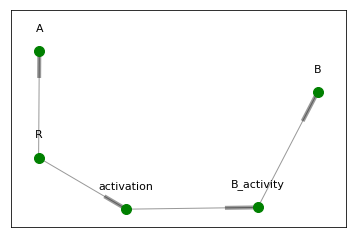
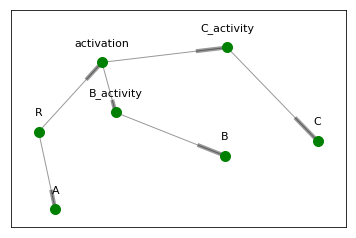
New docs build

diff --git a/searchindex.js b/searchindex.js
@@ -1,1 +1,1 @@
-Search.setIndex({docnames:["attribute_sets","exceptions","hierarchy","index","modules","primitives","rules","tutorial1","tutorial2"],envversion:53,filenames:["attribute_sets.rst","exceptions.rst","hierarchy.rst","index.rst","modules.rst","primitives.rst","rules.rst","tutorial1.rst","tutorial2.rst"],objects:{"regraph.attribute_sets":{AttributeSet:[0,1,1,""],EmptySet:[0,1,1,""],FiniteSet:[0,1,1,""],IntegerSet:[0,1,1,""],RegexSet:[0,1,1,""],UniversalSet:[0,1,1,""]},"regraph.attribute_sets.AttributeSet":{difference:[0,2,1,""],from_json:[0,3,1,""],intersect:[0,2,1,""],issubset:[0,2,1,""],union:[0,2,1,""]},"regraph.attribute_sets.EmptySet":{difference:[0,2,1,""],intersect:[0,2,1,""],is_empty:[0,2,1,""],is_universal:[0,2,1,""],issubset:[0,2,1,""],to_json:[0,2,1,""],union:[0,2,1,""]},"regraph.attribute_sets.FiniteSet":{add:[0,2,1,""],difference:[0,2,1,""],intersection:[0,2,1,""],is_empty:[0,2,1,""],is_universal:[0,2,1,""],issubset:[0,2,1,""],to_json:[0,2,1,""],union:[0,2,1,""],update:[0,2,1,""]},"regraph.attribute_sets.IntegerSet":{contains:[0,2,1,""],difference:[0,2,1,""],empty:[0,3,1,""],from_finite_set:[0,3,1,""],intersection:[0,2,1,""],is_empty:[0,2,1,""],is_universal:[0,2,1,""],issubset:[0,2,1,""],to_json:[0,2,1,""],union:[0,2,1,""],universal:[0,3,1,""]},"regraph.attribute_sets.RegexSet":{difference:[0,2,1,""],empty:[0,3,1,""],from_finite_set:[0,3,1,""],intersection:[0,2,1,""],is_empty:[0,2,1,""],is_universal:[0,2,1,""],issubset:[0,2,1,""],match:[0,2,1,""],to_json:[0,2,1,""],union:[0,2,1,""],universal:[0,3,1,""]},"regraph.attribute_sets.UniversalSet":{difference:[0,2,1,""],intersection:[0,2,1,""],is_empty:[0,2,1,""],is_universal:[0,2,1,""],issubset:[0,2,1,""],to_json:[0,2,1,""],union:[0,2,1,""]},"regraph.exceptions":{AttributeSetError:[1,4,1,""],FormulaError:[1,4,1,""],GraphAttrsWarning:[1,4,1,""],GraphError:[1,4,1,""],HierarchyError:[1,4,1,""],InvalidHomomorphism:[1,4,1,""],ParsingError:[1,4,1,""],ReGraphError:[1,4,1,""],ReGraphException:[1,4,1,""],ReGraphWarning:[1,4,1,""],RewritingError:[1,4,1,""],RuleError:[1,4,1,""],TotalityWarning:[1,4,1,""]},"regraph.hierarchy":{AttributeContainter:[2,1,1,""],GraphNode:[2,1,1,""],GraphRelation:[2,1,1,""],Hierarchy:[2,1,1,""],Relation:[2,1,1,""],RuleNode:[2,1,1,""],RuleTyping:[2,1,1,""],Typing:[2,1,1,""]},"regraph.hierarchy.AttributeContainter":{add_attrs:[2,2,1,""],attrs_from_json:[2,5,1,""],attrs_to_json:[2,2,1,""],remove_attrs:[2,2,1,""],update_attrs:[2,2,1,""]},"regraph.hierarchy.GraphRelation":{left_domain:[2,2,1,""],right_domain:[2,2,1,""]},"regraph.hierarchy.Hierarchy":{"export":[2,2,1,""],add_cycle:[2,2,1,""],add_graph:[2,2,1,""],add_node_type:[2,2,1,""],add_relation:[2,2,1,""],add_rule:[2,2,1,""],add_rule_typing:[2,2,1,""],add_typing:[2,2,1,""],adjacent_relations:[2,2,1,""],apply_rule:[2,2,1,""],child_rule_from_nodes:[2,2,1,""],compose_path_typing:[2,2,1,""],descendents:[2,2,1,""],find_matching:[2,2,1,""],find_rule_matching:[2,2,1,""],from_json:[2,3,1,""],get_ancestors:[2,2,1,""],get_rule_typing:[2,2,1,""],get_typing:[2,2,1,""],graph_dict_factory:[2,6,1,""],graphs:[2,2,1,""],load:[2,3,1,""],merge_by_attr:[2,2,1,""],merge_by_id:[2,2,1,""],new_graph_from_nodes:[2,2,1,""],node_type:[2,2,1,""],relation_dict_factory:[2,6,1,""],relation_to_span:[2,2,1,""],relations:[2,2,1,""],remove_node:[2,2,1,""],remove_node_type:[2,2,1,""],remove_relation:[2,2,1,""],rename_graph:[2,2,1,""],rename_node:[2,2,1,""],rewrite:[2,2,1,""],rule_dict_factory:[2,6,1,""],rule_lhs_typing_dict_factory:[2,6,1,""],rule_rhs_typing_dict_factory:[2,6,1,""],rules:[2,2,1,""],to_json:[2,2,1,""],to_nx_graph:[2,2,1,""],to_total:[2,2,1,""],typing_dict_factory:[2,6,1,""],typings:[2,2,1,""],unique_graph_id:[2,2,1,""]},"regraph.hierarchy.RuleTyping":{all_total:[2,2,1,""],rename_source:[2,2,1,""],rename_target:[2,2,1,""]},"regraph.hierarchy.Typing":{is_total:[2,2,1,""],rename_source:[2,2,1,""],rename_target:[2,2,1,""]},"regraph.primitives":{add_edge:[5,7,1,""],add_edge_attrs:[5,7,1,""],add_edges_from:[5,7,1,""],add_node:[5,7,1,""],add_node_attrs:[5,7,1,""],add_node_new_id:[5,7,1,""],add_nodes_from:[5,7,1,""],append_to_node_names:[5,7,1,""],clone_node:[5,7,1,""],copy_node:[5,7,1,""],equal:[5,7,1,""],exists_edge:[5,7,1,""],export_graph:[5,7,1,""],filter_edges_by_attributes:[5,7,1,""],find_matching:[5,7,1,""],find_matching_with_types:[5,7,1,""],get_edge:[5,7,1,""],get_relabeled_graph:[5,7,1,""],graph_from_json:[5,7,1,""],graph_to_json:[5,7,1,""],load_graph:[5,7,1,""],merge_nodes:[5,7,1,""],print_graph:[5,7,1,""],relabel_node:[5,7,1,""],relabel_nodes:[5,7,1,""],remove_edge:[5,7,1,""],remove_edge_attrs:[5,7,1,""],remove_node:[5,7,1,""],remove_node_attrs:[5,7,1,""],set_edge:[5,7,1,""],subtract:[5,7,1,""],unique_node_id:[5,7,1,""],update_edge_attrs:[5,7,1,""],update_node_attrs:[5,7,1,""]},"regraph.rules":{Rule:[6,1,1,""]},"regraph.rules.Rule":{added_edge_attrs:[6,2,1,""],added_edges:[6,2,1,""],added_node_attrs:[6,2,1,""],added_nodes:[6,2,1,""],apply_to:[6,2,1,""],cloned_nodes:[6,2,1,""],from_json:[6,3,1,""],from_transform:[6,3,1,""],inject_add_edge:[6,2,1,""],inject_add_edge_attrs:[6,2,1,""],inject_add_node:[6,2,1,""],inject_add_node_attrs:[6,2,1,""],inject_clone_node:[6,2,1,""],inject_merge_nodes:[6,2,1,""],inject_remove_edge:[6,2,1,""],inject_remove_edge_attrs:[6,2,1,""],inject_remove_node:[6,2,1,""],inject_remove_node_attrs:[6,2,1,""],inject_update_edge_attrs:[6,2,1,""],inject_update_node_attrs:[6,2,1,""],is_relaxing:[6,2,1,""],is_restrictive:[6,2,1,""],merged_nodes:[6,2,1,""],removed_edge_attrs:[6,2,1,""],removed_edges:[6,2,1,""],removed_node_attrs:[6,2,1,""],removed_nodes:[6,2,1,""],to_commands:[6,2,1,""],to_json:[6,2,1,""]},regraph:{attribute_sets:[0,0,0,"-"],exceptions:[1,0,0,"-"],hierarchy:[2,0,0,"-"],primitives:[5,0,0,"-"],rules:[6,0,0,"-"]}},objnames:{"0":["py","module","Python module"],"1":["py","class","Python class"],"2":["py","method","Python method"],"3":["py","classmethod","Python class method"],"4":["py","exception","Python exception"],"5":["py","staticmethod","Python static method"],"6":["py","attribute","Python attribute"],"7":["py","function","Python function"]},objtypes:{"0":"py:module","1":"py:class","2":"py:method","3":"py:classmethod","4":"py:exception","5":"py:staticmethod","6":"py:attribute","7":"py:function"},terms:{"11841883_4":6,"13S":[],"1_3":7,"1_clone":7,"2_clone":[5,7],"5pm":[],"abstract":2,"boolean":[],"case":2,"class":[0,1,2,5,6,7],"default":[5,6,7],"export":[2,5],"final":7,"function":[3,5,7,8],"import":[5,7,8],"int":[0,7],"long":7,"new":[2,5,6,7],"return":[0,2,5,6],"static":[2,7],"true":[0,2,5,6,7,8],"try":7,"while":2,Adding:[],And:5,But:[],For:[6,7],The:[0,2,3,5,7],Then:7,These:[6,7],Use:[],Uses:5,Will:[],__iter__:[],__len__:[],__traceback__:[],_map:2,_modul:5,_pattern_typ:0,a_and_int:7,a_or_int:7,abl:[5,8],about:[1,7,8],abov:7,accommod:[2,8],accord:2,act:2,action:8,activ:8,acycl:[2,8],add:[0,2,5,6,7,8],add_attr:2,add_cycl:2,add_edg:5,add_edge_attr:[5,7],add_edge_rh:[],add_edges_from:[5,7,8],add_graph:[2,8],add_nod:5,add_node_attr:[5,7],add_node_attrs_rh:[],add_node_new_id:5,add_node_typ:2,add_nodes_from:[5,7,8],add_path:[],add_rel:2,add_rul:2,add_rule_typ:2,add_star:[],add_typ:[2,8],add_weighted_edges_from:[],added:[6,7],added_edg:6,added_edge_attr:6,added_nod:6,added_node_attr:6,adding:2,addit:[2,6,7],addition:2,adj_it:[],adj_list:[],adjac:[5,7],adjacency_it:[],adjacency_list:[],adjacent_rel:2,adjlist_dict_factori:[],advanc:[3,8],after:0,afternoon:7,again:7,age:7,agent:8,algorithm:5,alia:2,alic:7,all:[0,2,5,6,7,8],all_tot:2,allow:[3,6,7],along:2,alphanum:7,alreadi:[2,5,6],also:[5,6,7,8],altern:2,among:2,ancestor:2,ani:[0,2,7,8],anoth:[0,7,8],appear:[],append:5,append_to_node_nam:5,appli:[2,6,7],apply_rul:2,apply_to:[6,7],arbitrari:[],arg:0,argument:6,assign:5,associ:0,assum:[2,5],atset:7,attach:7,attempt:[],attr:[1,2,5,6,7],attr_cond:5,attr_dict:[],attr_kei:5,attrdict:[],attribur:2,attribut:[1,2,3,4,5,6,8],attribute_set:[0,5,7],attributecontaint:2,attributeset:[0,7],attributeseterror:[0,1,7],attrnam:[],attrs_cond:5,attrs_dict:5,attrs_from_json:2,attrs_kei:5,attrs_to_json:2,automat:[],b_activ:8,b_and_int:7,b_or_int:7,ba_map:5,back:[0,8],base:[0,1,2,3,7],becom:[1,7],behaviour:[0,7],behind:7,being:[0,5,6],below:2,between:[0,2,5,6,7],binari:[2,8],blue:[2,5,7],bob:7,bool:[2,5,6],both:[3,6,7],build:2,bye:7,call:[],callabl:5,can:[0,2,5,6,7],canon:6,capac:[],care:[],cast:0,catalysi:8,caus:7,chang:[2,3,8],chapter:6,check:[0,5,6],child_rule_from_nod:2,children:[],choic:[],classmethod:[0,2,6],clear:[],clearli:7,clone:[5,6,7],clone_nod:[5,7],clone_rhs_nod:[],cloned_nod:6,close:0,code:7,collect:[0,2,3,5,6,7],color:[5,7],com:[0,6,7],combin:[],command:[1,6],common:[0,7],commut:2,compar:5,complet:[],compon:2,compos:2,compose_path_typ:2,concaten:0,condit:[5,7],connect:7,consid:[7,8],consist:[6,7],constrain:2,construct:[0,2,8],contain:[0,2,3,5,6,7],contex:7,continu:7,contrast:[],control:[],conveni:[],convert:[0,2,6,7],copi:[0,5],copy_nod:5,correct:[],correspond:[0,2,5,6,7],corrupt:[],cosid:7,coupl:7,creat:[0,2,5,6,7,8],creation:[3,7],custom:[],cycl:2,dag:2,data:[0,2,6,7],data_dictionari:[],datadict:[],datavalu:[],ddict:[],decr_typ:5,deep:[],deepcopi:[],defin:[0,2,3,5,6,7],definit:2,degre:[],degree_it:[],depend:7,descend:2,descent:2,describ:3,design:[],desir:[],detail:[0,7],dev:7,develop:5,dict:[0,1,2,5,6,7],dict_kei:7,dictionari:[0,2,5,6,7],dictionnari:5,diff:5,differ:[0,2,5,7],digraph:[2,5,7,8],direct:[2,3,5,7,8],directli:[],disjoint:[0,7],distinct:5,doc:[],document:5,doe:[5,6],doesn:[],domain:2,done:7,dont:[],down:2,dump:7,duplic:[],dure:[3,5,6,7],each:[],ebunch:[],edg:[0,1,2,5,6,7,8],edge_attr_dict_factori:[],edge_dict:[],edge_ind:[],edge_it:[],edge_list:5,edge_method:5,edgelist:[],edges_it:[],effect:[],either:5,element:[0,5,7],empti:[0,1,2,6,7,8],emptyset:[0,7],empyset:0,enabl:3,encapsul:2,encount:[],end:[],ensur:2,enzym:8,eqaul:5,equal:5,equip:[2,7],equival:[],error:[1,2,5],essenc:7,etc:7,even:[],everi:[2,5],evolut:3,exactli:6,exampl:[2,5,7,8],except:[3,4,5,7],exhaust:[],exist:[2,5,6],exists_edg:5,explicit:[],export_graph:5,express:[0,2,7,8],extrem:7,fail:[],fals:[0,2,5,6,7],faster:[],fastest:[],file:[2,5],filenam:[2,5],filter:5,filter_edges_by_attribut:5,find:[0,2,5,6,7],find_match:[2,5,7],find_matching_with_typ:5,find_rule_match:2,finit:[0,7],finiteset:[0,7],first:[6,7],flag:2,follow:[0,2,5,6,7,8],forc:2,forget:2,form:2,formula:1,formulaerror:1,found:[0,2,5,6,7],framework:3,friend:7,from:[0,2,5,6,7,8],from_finite_set:0,from_json:[0,2,6],from_transform:[6,7],fset:0,fsm:0,g_prime:6,g_t_type:2,gener:[2,3,5],get:[2,5,6],get_ancestor:2,get_edg:5,get_edge_data:[],get_relabeled_graph:5,get_rule_typ:2,get_typ:2,git:7,github:[0,5,7],give:[3,8],given:[0,2,5,6,7],going:6,grammar:6,graph1:5,graph2:5,graph:[0,1,2,3,5,6,8],graph_attr:2,graph_dict_factori:2,graph_from_json:5,graph_id:2,graph_node_cl:2,graph_to_json:[5,7],graph_typ:5,graph_typing_cl:2,graphattrswarn:1,grapherror:[1,5],graphmatch:5,graphnod:2,graphrel:2,greeneri:0,hand:[2,6,7],handl:1,has:7,has_edg:[],has_nod:[],has_predecessor:[],has_successor:[],hash:[],hashabl:[2,5,6],have:[5,7],hello:7,help:6,here:[0,7],hierarchi:[1,3,4,7],hierarchyerror:[1,2],hierari:2,hold:[],homomorph:[1,2,6,8],hopefulli:7,html:5,http:[0,5,6,7],idea:7,ident:[],ids:[2,5,6],ignor:2,illustr:7,imag:5,immedi:2,implement:[0,2,5,6,7,8],impos:7,in_degre:[],in_degree_it:[],in_edg:[],in_edge_it:[],in_edges_it:[],incapsul:2,incid:[2,6,7],includ:0,inclus:[0,7],incom:[],index:3,indic:2,induc:5,inf:7,infinit:[0,7],inform:[6,7],inherit:[0,2],initi:[6,7],inject:6,inject_add_edg:[6,7],inject_add_edge_attr:6,inject_add_nod:[6,7],inject_add_node_attr:6,inject_clone_nod:[6,7],inject_merge_nod:6,inject_remove_edg:[6,7],inject_remove_edge_attr:6,inject_remove_nod:6,inject_remove_node_attr:6,inject_update_edge_attr:6,inject_update_node_attr:6,inplac:[2,5,6],input:[5,6],insid:5,instal:[3,8],instanc:[0,2,5,6,7],instead:7,int_regex:7,integ:[0,7],integerset:[0,7],interfac:[0,2,7],interg:7,intersect:[0,5,7],interv:[0,7],interval_list:0,invalid:1,invalidhomomorph:[1,2],invok:7,is_direct:[],is_empti:0,is_multigraph:[],is_relax:6,is_restrict:6,is_tot:2,is_univers:0,isomorph:5,issubset:[0,7],item:[],iter:[5,6],its:[0,2,5,6,7,8],itself:[2,6],j_data:5,john:7,json:[0,2,5,6,7],json_data:[0,2,6,7],just:[],kappa:7,keep:[],kei:[2,5,6,7],keyerror:[],keyword:[],label:5,last:7,later:[3,6],learn:7,left:[2,6,7],left_domain:2,left_h:2,lego:0,len:[],length:[],let:7,level:[2,8],lhs:[2,6,7],lhs_map:2,lhs_node_id:6,lhs_pair:[],lhs_total:2,lhs_type:2,librari:[0,3,7],like:[0,2,5],line:7,link:6,list:[0,2,5,6],load:[2,5],load_graph:5,longer:7,look:5,loop:[],machin:0,mai:7,maintain:[],make:2,mani:[],manual:[],map:[2,5,6,7,8],matcch:7,match:[0,2,5,6,7],math:7,mathemat:[2,8],mayb:2,mean:[2,7,8],member:2,membership:[],merg:[2,5,6,7],merge3:[],merge_by_attr:2,merge_by_id:2,merge_nod:[5,7],merge_node_list:[],merge_nodes_rh:[],merged_nod:[5,6],method:[0,2,5,6,7],middl:[],miss:8,mod:8,mod_stat:8,model:[3,8],modul:[2,6,7],moral:0,more:[0,6],moreov:5,morphism:2,multidigraph:[],multigraph:[],multipl:[],must:[],mutabl:[],name:[2,5,7],nbrdict:[],nbunch:[],nbunch_it:[],nd_iter:[],nedg:[],need:7,neighbor:[],neighbors_it:[],neither:[5,6],networkx:[2,3,5,6,7,8],networkxerror:[],never:0,new_graph:[2,7],new_graph_from_nod:2,new_graph_id:2,new_id:5,new_nam:[2,5,6],new_nod:[5,7],new_node_id:6,new_rule1:7,next:7,niter:[],nlist:[],nloop:[],nnode:[],no_hi_by:7,node1:[],node2:[],node:[0,2,5,6,7,8],node_dict_factori:[],node_id:[2,5,6],node_list:[5,6],node_lust:6,node_nam:[],node_typ:[2,8],nodelist:[],nodes_it:[],nodes_with_selfloop:[],non:7,none:[0,2,5,6],nor:6,normal:[],note:7,now:7,ntersect:5,num:0,number:[],number_of_edg:[],number_of_nod:[],number_of_selfloop:[],numer:[],obj:[2,6],object:[0,2,3,5,6,7],obtain:[],ofpropag:2,old:[5,6],old_nam:2,onc:[],one:[2,5,6,7],ones:[6,7],onli:[5,6,7],open:0,oper:[2,7],option:[5,6],order:[6,7],ordinari:[0,7],org:[],origin:[5,7],other:0,otherwis:[0,2,5,6],our:7,out:[],out_degre:[],out_degree_it:[],out_edg:[],out_edges_it:[],outgo:[],output:[],over:[],overload:[],own:[],p_lh:[6,7],p_new_node_id:6,p_pair:[],p_rh:[6,7],packag:[5,6],page:3,pair:[],paramet:[0,2,5,6],parent:2,parent_po:7,pars:[0,1,6],parser:6,parsingerror:1,part:[3,6],partial:1,path:2,pattern:[0,2,5,6,7],pattern_typ:[2,5],perform:[6,7],place:6,platform:[],plot:7,plot_graph:[7,8],plot_inst:7,plot_rul:7,point:[],pos:7,positive_integ:7,possibl:[0,7],potenti:7,preced:[],predecessor:[2,8],predecessors_it:[],prefix:[2,5],preform:6,prepend:5,presenc:7,present:[6,7],preserv:[3,5,6,7],presev:[6,7],pretti:5,previous:7,primit:[1,3,4,6,8],primitv:6,print:5,print_graph:5,problem:5,procedur:[2,3,6,8],process:[],produc:[2,6,7],propag:[2,3,7],properti:2,protein:8,provid:[0,2,3,5,6,7,8],pushout:[2,3,6,7],put:5,python:[0,5,7],qntm:0,quietli:[],rais:[0,2,5,6],rang:[],readabl:7,real:0,realset:0,reciproc:[],recogn:[0,6],reconnect:[2,5,8],recurs:2,red:[2,5,7],reduc:0,reduct:[],refer:7,reflect:7,regex:[0,7],regexp:0,regexset:[0,7],region:8,regraph:[0,1,2,5,6,7,8],regraph_tmp_typings_key_that_you_should_not_us:5,regrapherror:[1,5],regraphexcept:1,regraphwarn:1,regular:[0,7],rel:2,rel_pair:[],relabel:5,relabel_nod:5,relabl:5,relat:[0,2,6,8],relation_cl:2,relation_dict:2,relation_dict_factori:2,relation_to_span:2,relax:6,relev:[],remov:[2,5,6,7,8],remove_attr:2,remove_edg:5,remove_edge_attr:[5,7],remove_edge_p:[],remove_edge_rh:[],remove_edges_from:[],remove_graph:[],remove_nod:[2,5,8],remove_node_attr:[5,7],remove_node_attrs_p:[],remove_node_attrs_rh:[],remove_node_rh:[],remove_node_typ:2,remove_nodes_from:[],remove_rel:2,removed_edg:6,removed_edge_attr:6,removed_nod:6,removed_node_attr:6,renam:2,rename_graph:2,rename_nod:2,rename_sourc:2,rename_target:2,replac:6,repositori:7,repr:[2,6],repres:[2,5,6,7,8],represen:[0,2],represent:[0,2,5,6,7],represet:2,request:[],requir:[],respect:[2,5,6],restict:6,restrict:6,result:[0,5,6,7],retreiv:[],retriev:2,retur:7,revers:2,rewrit:[1,2,3,6],rewritingerror:1,rhs:[2,6,7],rhs_g_prime:6,rhs_instanc:7,rhs_map:2,rhs_new_node_id:6,rhs_pair:[],rhs_total:2,rhs_type:2,right:[2,6,7],right_domain:2,right_h:2,robust:[2,8],routin:[],rule1:7,rule:[1,2,3,4,8],rule_attr:2,rule_dict_factori:2,rule_id:2,rule_lhs_typing_dict_factori:2,rule_node_cl:2,rule_rhs_typing_dict_factori:2,rule_typing_cl:2,ruleerror:[1,6],rulenod:2,rulerel:2,ruletyp:2,safe:[],same:[2,6,7],satisfi:[5,7],save:5,script:6,search:[2,3,5],second:7,section:[7,8],see:[0,2,6],seen:7,select:[],self:0,selfloop:[],selfloop_edg:[],separ:2,sequenc:[],serial:[5,7],sesqui:[2,3,6,7],set:[1,2,3,4,5,6,7],set_edg:5,setup:7,shallow:[],should:[2,5,6],side:[2,6,7],silent:[],similar:5,simpl:[0,2,3,6,8],simpler:[],simpli:[],simplifi:6,singl:[],singleton:[],size:5,smth:6,solv:5,some:[0,2,5,6,7],sort:0,sourc:[0,1,2,5,6],span:2,special:7,specif:3,specifi:[2,3,5,6,7],springer:6,ssh:7,stai:[6,7],standard:7,star:[],start:5,state:[0,8],store:5,str:[0,5,6],strict:2,string:[0,7],strong_typ:2,structur:[0,2,3,6,7],subclass:[],subdictionari:5,subdictiotari:5,subgraph:[2,5],subject:[2,6,7,8],subragh:5,subrul:2,subset:[0,5,7],substrat:8,subtract:[5,7],successor:[2,8],successors_it:[],sum:[],suppos:5,symmetr:[2,6,7,8],syntax:[],system:[2,3,8],take:[5,6],target:[2,5,6],test:[0,2,7],thats:6,thei:2,them:[5,6,7],theoret:7,thi:[0,2,3,5,6,7,8],those:[],though:[],thought:2,three:[6,7],through:[2,6,8],time:2,to_command:6,to_direct:[],to_json:[0,2,6],to_nx_graph:2,to_tot:2,to_undirect:[],todo:[0,2],togeth:[6,7],token:5,tool:3,total:2,totalitywarn:1,transfer:[],transform:[1,3,5,6,8],transit:[2,8],tri:6,tupl:5,twice:[],two:[0,2,5,6,7],type:[0,2,3,5,7,8],typing_dict:2,typing_dict_factori:2,typing_graph:[2,5],undirect:[2,3,7],unio:7,union:[0,5,7],uniqu:5,unique_graph_id:2,unique_node_id:5,univ:7,univers:0,universalset:[0,7],unknown:5,unpack:[],updat:[0,2,5,6],update_attr:2,update_edge_attr:5,update_node_attr:5,usag:7,use:[],used:[0,6],user:3,userwarn:[],uses:0,using:7,util:[3,5],utm:[],valid:2,valu:[0,2,5,6,7],variou:[2,3,5],version:3,view:3,wai:[0,6,7],warn:1,weight:[],well:[2,7],were:5,when:6,where:[2,3,5,6,8],whether:[],which:[0,2,5,6,7,8],whose:[2,5,6,7],wiht:5,with_traceback:[],wn2898:[],word:7,work:7,workflow:7,would:5,wrap:[0,7],wrapper:[0,7],yield:[],you:[5,7,8],your:7,zac:7,zip:[]},titles:["Attribute Sets","Exceptions","Hierarchy","Welcome to ReGraph\u2019s documentation!","Modules","Primitives","Rules","Tutorial","Tutorial"],titleterms:{advanc:7,attribut:[0,7],compon:[],creation:8,document:3,except:1,graph:7,hierarchi:[2,8],indic:3,instal:7,modul:[3,4],more:7,part:[7,8],primit:[5,7],propag:8,regraph:3,rewrit:[7,8],rule:[6,7],see:7,set:0,simpl:7,tabl:3,transform:7,tutori:[3,7,8],welcom:3}})
+Search.setIndex({docnames:["attribute_sets","exceptions","hierarchy","index","modules","primitives","rules","tutorial1","tutorial2"],envversion:53,filenames:["attribute_sets.rst","exceptions.rst","hierarchy.rst","index.rst","modules.rst","primitives.rst","rules.rst","tutorial1.rst","tutorial2.rst"],objects:{"regraph.attribute_sets":{AttributeSet:[0,1,1,""],EmptySet:[0,1,1,""],FiniteSet:[0,1,1,""],IntegerSet:[0,1,1,""],RegexSet:[0,1,1,""],UniversalSet:[0,1,1,""]},"regraph.attribute_sets.AttributeSet":{difference:[0,2,1,""],from_json:[0,3,1,""],intersect:[0,2,1,""],issubset:[0,2,1,""],union:[0,2,1,""]},"regraph.attribute_sets.EmptySet":{difference:[0,2,1,""],intersect:[0,2,1,""],is_empty:[0,2,1,""],is_universal:[0,2,1,""],issubset:[0,2,1,""],to_json:[0,2,1,""],union:[0,2,1,""]},"regraph.attribute_sets.FiniteSet":{add:[0,2,1,""],difference:[0,2,1,""],intersection:[0,2,1,""],is_empty:[0,2,1,""],is_universal:[0,2,1,""],issubset:[0,2,1,""],to_json:[0,2,1,""],union:[0,2,1,""],update:[0,2,1,""]},"regraph.attribute_sets.IntegerSet":{contains:[0,2,1,""],difference:[0,2,1,""],empty:[0,3,1,""],from_finite_set:[0,3,1,""],intersection:[0,2,1,""],is_empty:[0,2,1,""],is_universal:[0,2,1,""],issubset:[0,2,1,""],to_json:[0,2,1,""],union:[0,2,1,""],universal:[0,3,1,""]},"regraph.attribute_sets.RegexSet":{difference:[0,2,1,""],empty:[0,3,1,""],from_finite_set:[0,3,1,""],intersection:[0,2,1,""],is_empty:[0,2,1,""],is_universal:[0,2,1,""],issubset:[0,2,1,""],match:[0,2,1,""],to_json:[0,2,1,""],union:[0,2,1,""],universal:[0,3,1,""]},"regraph.attribute_sets.UniversalSet":{difference:[0,2,1,""],intersection:[0,2,1,""],is_empty:[0,2,1,""],is_universal:[0,2,1,""],issubset:[0,2,1,""],to_json:[0,2,1,""],union:[0,2,1,""]},"regraph.exceptions":{AttributeSetError:[1,4,1,""],FormulaError:[1,4,1,""],GraphAttrsWarning:[1,4,1,""],GraphError:[1,4,1,""],HierarchyError:[1,4,1,""],InvalidHomomorphism:[1,4,1,""],ParsingError:[1,4,1,""],ReGraphError:[1,4,1,""],ReGraphException:[1,4,1,""],ReGraphWarning:[1,4,1,""],RewritingError:[1,4,1,""],RuleError:[1,4,1,""],TotalityWarning:[1,4,1,""]},"regraph.hierarchy":{AttributeContainter:[2,1,1,""],GraphNode:[2,1,1,""],GraphRelation:[2,1,1,""],Hierarchy:[2,1,1,""],Relation:[2,1,1,""],RuleNode:[2,1,1,""],RuleTyping:[2,1,1,""],Typing:[2,1,1,""]},"regraph.hierarchy.AttributeContainter":{add_attrs:[2,2,1,""],attrs_from_json:[2,5,1,""],attrs_to_json:[2,2,1,""],remove_attrs:[2,2,1,""],update_attrs:[2,2,1,""]},"regraph.hierarchy.GraphRelation":{left_domain:[2,2,1,""],right_domain:[2,2,1,""]},"regraph.hierarchy.Hierarchy":{"export":[2,2,1,""],add_cycle:[2,2,1,""],add_graph:[2,2,1,""],add_node_type:[2,2,1,""],add_relation:[2,2,1,""],add_rule:[2,2,1,""],add_rule_typing:[2,2,1,""],add_typing:[2,2,1,""],adjacent_relations:[2,2,1,""],apply_rule:[2,2,1,""],child_rule_from_nodes:[2,2,1,""],compose_path_typing:[2,2,1,""],descendents:[2,2,1,""],find_matching:[2,2,1,""],find_rule_matching:[2,2,1,""],from_json:[2,3,1,""],get_ancestors:[2,2,1,""],get_rule_typing:[2,2,1,""],get_typing:[2,2,1,""],graph_dict_factory:[2,6,1,""],graphs:[2,2,1,""],load:[2,3,1,""],merge_by_attr:[2,2,1,""],merge_by_id:[2,2,1,""],new_graph_from_nodes:[2,2,1,""],node_type:[2,2,1,""],relation_dict_factory:[2,6,1,""],relation_to_span:[2,2,1,""],relations:[2,2,1,""],remove_node:[2,2,1,""],remove_node_type:[2,2,1,""],remove_relation:[2,2,1,""],rename_graph:[2,2,1,""],rename_node:[2,2,1,""],rewrite:[2,2,1,""],rule_dict_factory:[2,6,1,""],rule_lhs_typing_dict_factory:[2,6,1,""],rule_rhs_typing_dict_factory:[2,6,1,""],rules:[2,2,1,""],to_json:[2,2,1,""],to_nx_graph:[2,2,1,""],to_total:[2,2,1,""],typing_dict_factory:[2,6,1,""],typings:[2,2,1,""],unique_graph_id:[2,2,1,""]},"regraph.hierarchy.RuleTyping":{all_total:[2,2,1,""],rename_source:[2,2,1,""],rename_target:[2,2,1,""]},"regraph.hierarchy.Typing":{is_total:[2,2,1,""],rename_source:[2,2,1,""],rename_target:[2,2,1,""]},"regraph.primitives":{add_edge:[5,7,1,""],add_edge_attrs:[5,7,1,""],add_edges_from:[5,7,1,""],add_node:[5,7,1,""],add_node_attrs:[5,7,1,""],add_node_new_id:[5,7,1,""],add_nodes_from:[5,7,1,""],append_to_node_names:[5,7,1,""],clone_node:[5,7,1,""],copy_node:[5,7,1,""],equal:[5,7,1,""],exists_edge:[5,7,1,""],export_graph:[5,7,1,""],filter_edges_by_attributes:[5,7,1,""],find_matching:[5,7,1,""],find_matching_with_types:[5,7,1,""],get_edge:[5,7,1,""],get_relabeled_graph:[5,7,1,""],graph_from_json:[5,7,1,""],graph_to_json:[5,7,1,""],load_graph:[5,7,1,""],merge_nodes:[5,7,1,""],print_graph:[5,7,1,""],relabel_node:[5,7,1,""],relabel_nodes:[5,7,1,""],remove_edge:[5,7,1,""],remove_edge_attrs:[5,7,1,""],remove_node:[5,7,1,""],remove_node_attrs:[5,7,1,""],set_edge:[5,7,1,""],subtract:[5,7,1,""],unique_node_id:[5,7,1,""],update_edge_attrs:[5,7,1,""],update_node_attrs:[5,7,1,""]},"regraph.rules":{Rule:[6,1,1,""]},"regraph.rules.Rule":{added_edge_attrs:[6,2,1,""],added_edges:[6,2,1,""],added_node_attrs:[6,2,1,""],added_nodes:[6,2,1,""],apply_to:[6,2,1,""],cloned_nodes:[6,2,1,""],from_json:[6,3,1,""],from_transform:[6,3,1,""],inject_add_edge:[6,2,1,""],inject_add_edge_attrs:[6,2,1,""],inject_add_node:[6,2,1,""],inject_add_node_attrs:[6,2,1,""],inject_clone_node:[6,2,1,""],inject_merge_nodes:[6,2,1,""],inject_remove_edge:[6,2,1,""],inject_remove_edge_attrs:[6,2,1,""],inject_remove_node:[6,2,1,""],inject_remove_node_attrs:[6,2,1,""],inject_update_edge_attrs:[6,2,1,""],inject_update_node_attrs:[6,2,1,""],is_relaxing:[6,2,1,""],is_restrictive:[6,2,1,""],merged_nodes:[6,2,1,""],removed_edge_attrs:[6,2,1,""],removed_edges:[6,2,1,""],removed_node_attrs:[6,2,1,""],removed_nodes:[6,2,1,""],to_commands:[6,2,1,""],to_json:[6,2,1,""]},regraph:{attribute_sets:[0,0,0,"-"],exceptions:[1,0,0,"-"],hierarchy:[2,0,0,"-"],primitives:[5,0,0,"-"],rules:[6,0,0,"-"]}},objnames:{"0":["py","module","Python module"],"1":["py","class","Python class"],"2":["py","method","Python method"],"3":["py","classmethod","Python class method"],"4":["py","exception","Python exception"],"5":["py","staticmethod","Python static method"],"6":["py","attribute","Python attribute"],"7":["py","function","Python function"]},objtypes:{"0":"py:module","1":"py:class","2":"py:method","3":"py:classmethod","4":"py:exception","5":"py:staticmethod","6":"py:attribute","7":"py:function"},terms:{"11841883_4":6,"13S":[],"1_3":7,"1_clone":7,"2_clone":[5,7],"5pm":[],"abstract":2,"boolean":[],"case":2,"class":[0,1,2,5,6,7],"default":[5,6,7],"export":[2,5],"final":7,"function":[3,5,7,8],"import":[5,7,8],"int":[0,7],"long":7,"new":[2,5,6,7],"return":[0,2,5,6],"static":[2,7],"true":[0,2,5,6,7,8],"try":7,"while":2,Adding:[],And:5,But:[],For:[6,7],The:[0,2,3,5,7],Then:7,These:[6,7],Use:[],Uses:5,Will:[],__iter__:[],__len__:[],__traceback__:[],_map:2,_modul:5,_pattern_typ:0,a_and_int:7,a_or_int:7,abl:[5,8],about:[1,7,8],abov:7,accommod:[2,8],accord:2,act:2,action:8,activ:8,acycl:[2,8],add:[0,2,5,6,7,8],add_attr:2,add_cycl:2,add_edg:5,add_edge_attr:[5,7],add_edge_rh:[],add_edges_from:[5,7,8],add_graph:[2,8],add_nod:5,add_node_attr:[5,7],add_node_attrs_rh:[],add_node_new_id:5,add_node_typ:2,add_nodes_from:[5,7,8],add_path:[],add_rel:[2,8],add_rul:2,add_rule_typ:2,add_star:[],add_typ:[2,8],add_weighted_edges_from:[],added:[6,7],added_edg:6,added_edge_attr:6,added_nod:6,added_node_attr:6,adding:2,addit:[2,6,7],addition:2,adj_it:[],adj_list:[],adjac:[5,7],adjacency_it:[],adjacency_list:[],adjacent_rel:2,adjlist_dict_factori:[],advanc:[3,8],after:0,afternoon:7,again:7,age:7,agent:8,algorithm:5,alia:2,alic:7,all:[0,2,5,6,7,8],all_tot:2,allow:[3,6,7],along:2,alphanum:7,alreadi:[2,5,6],also:[5,6,7,8],altern:2,among:2,ancestor:2,ani:[0,2,7,8],anoth:[0,7,8],appear:[],append:5,append_to_node_nam:5,appli:[2,6,7],apply_rul:2,apply_to:[6,7],arbitrari:[],arg:0,argument:6,assign:5,associ:0,assum:[2,5],atset:7,attach:7,attempt:[],attr:[1,2,5,6,7],attr_cond:5,attr_dict:[],attr_kei:5,attrdict:[],attribur:2,attribut:[1,2,3,4,5,6,8],attribute_set:[0,5,7],attributecontaint:2,attributeset:[0,7],attributeseterror:[0,1,7],attrnam:[],attrs_cond:5,attrs_dict:5,attrs_from_json:2,attrs_kei:5,attrs_to_json:2,automat:[],b_activ:8,b_and_int:7,b_or_int:7,ba_map:5,back:[0,8],base:[0,1,2,3,7],becom:[1,7],behaviour:[0,7],behind:7,being:[0,5,6],below:2,between:[0,2,5,6,7,8],binari:[2,8],blue:[2,5,7],bob:7,bool:[2,5,6],both:[3,6,7],build:2,bye:7,c_activ:8,call:[],callabl:5,can:[0,2,5,6,7],canon:6,capac:[],care:[],cast:0,catalysi:8,caus:7,chang:[2,3,8],chapter:6,check:[0,5,6],child_rule_from_nod:2,children:[],choic:[],classmethod:[0,2,6],clear:[],clearli:7,clone:[5,6,7],clone_nod:[5,7],clone_rhs_nod:[],cloned_nod:6,close:0,code:7,collect:[0,2,3,5,6,7],color:[5,7],com:[0,6,7],combin:[],command:[1,6],common:[0,7],commut:2,compar:5,complet:[],compon:2,compos:2,compose_path_typ:2,concaten:0,condit:[5,7],connect:7,consid:[7,8],consist:[6,7],constrain:2,construct:[0,2,8],contain:[0,2,3,5,6,7],contex:7,continu:7,contrast:[],control:[],conveni:[],convert:[0,2,6,7],copi:[0,5],copy_nod:5,correct:[],correspond:[0,2,5,6,7],corrupt:[],cosid:7,coupl:7,creat:[0,2,5,6,7,8],creation:[3,7],custom:[],cycl:2,dag:2,data:[0,2,6,7],data_dictionari:[],datadict:[],datavalu:[],ddict:[],decr_typ:5,deep:[],deepcopi:[],defin:[0,2,3,5,6,7],definit:2,degre:[],degree_it:[],depend:7,descend:2,descent:2,describ:3,design:[],desir:[],detail:[0,7],dev:7,develop:5,dict:[0,1,2,5,6,7],dict_kei:7,dictionari:[0,2,5,6,7],dictionnari:5,diff:5,differ:[0,2,5,7],digraph:[2,5,7,8],direct:[2,3,5,7,8],directli:[],disjoint:[0,7],distinct:5,doc:[],document:5,doe:[5,6],doesn:[],domain:2,done:7,dont:[],down:2,dump:7,duplic:[],dure:[3,5,6,7],each:[],ebunch:[],edg:[0,1,2,5,6,7,8],edge_attr_dict_factori:[],edge_dict:[],edge_ind:[],edge_it:[],edge_list:5,edge_method:5,edgelist:[],edges_it:[],effect:[],either:5,element:[0,5,7],empti:[0,1,2,6,7,8],emptyset:[0,7],empyset:0,enabl:3,encapsul:2,encount:[],end:[],ensur:2,enzym:8,eqaul:5,equal:5,equip:[2,7],equival:[],error:[1,2,5],essenc:7,etc:7,even:[],everi:[2,5],evolut:3,exactli:6,exampl:[2,5,7,8],except:[3,4,5,7],exhaust:[],exist:[2,5,6],exists_edg:5,explicit:[],export_graph:5,express:[0,2,7,8],extrem:7,fail:[],fals:[0,2,5,6,7],faster:[],fastest:[],file:[2,5],filenam:[2,5],filter:5,filter_edges_by_attribut:5,find:[0,2,5,6,7],find_match:[2,5,7],find_matching_with_typ:5,find_rule_match:2,finit:[0,7],finiteset:[0,7],first:[6,7],flag:2,follow:[0,2,5,6,7,8],forc:2,forget:2,form:2,formula:1,formulaerror:1,found:[0,2,5,6,7],framework:3,friend:7,from:[0,2,5,6,7,8],from_finite_set:0,from_json:[0,2,6],from_transform:[6,7],fset:0,fsm:0,g_prime:6,g_t_type:2,gener:[2,3,5],get:[2,5,6],get_ancestor:2,get_edg:5,get_edge_data:[],get_relabeled_graph:5,get_rule_typ:2,get_typ:2,git:7,github:[0,5,7],give:[3,8],given:[0,2,5,6,7],going:6,grammar:6,graph1:5,graph2:5,graph:[0,1,2,3,5,6,8],graph_attr:2,graph_dict_factori:2,graph_from_json:5,graph_id:2,graph_node_cl:2,graph_to_json:[5,7],graph_typ:5,graph_typing_cl:2,graphattrswarn:1,grapherror:[1,5],graphmatch:5,graphnod:2,graphrel:2,greeneri:0,hand:[2,6,7],handl:1,has:7,has_edg:[],has_nod:[],has_predecessor:[],has_successor:[],hash:[],hashabl:[2,5,6],have:[5,7],hello:7,help:6,here:[0,7],hierarchi:[1,3,4,7],hierarchyerror:[1,2],hierari:2,hold:[],homomorph:[1,2,6,8],hopefulli:7,html:5,http:[0,5,6,7],idea:7,ident:[],ids:[2,5,6],ignor:2,illustr:7,imag:5,immedi:2,implement:[0,2,5,6,7,8],impos:7,in_degre:[],in_degree_it:[],in_edg:[],in_edge_it:[],in_edges_it:[],incapsul:2,incid:[2,6,7],includ:0,inclus:[0,7],incom:[],index:3,indic:2,induc:5,inf:7,infinit:[0,7],inform:[6,7],inherit:[0,2],initi:[6,7],inject:6,inject_add_edg:[6,7],inject_add_edge_attr:6,inject_add_nod:[6,7],inject_add_node_attr:6,inject_clone_nod:[6,7],inject_merge_nod:6,inject_remove_edg:[6,7],inject_remove_edge_attr:6,inject_remove_nod:6,inject_remove_node_attr:6,inject_update_edge_attr:6,inject_update_node_attr:6,inplac:[2,5,6],input:[5,6],insid:5,instal:[3,8],instanc:[0,2,5,6,7],instead:7,int_regex:7,integ:[0,7],integerset:[0,7],interfac:[0,2,7],interg:7,intersect:[0,5,7],interv:[0,7],interval_list:0,invalid:1,invalidhomomorph:[1,2],invok:7,is_direct:[],is_empti:0,is_multigraph:[],is_relax:6,is_restrict:6,is_tot:2,is_univers:0,isomorph:5,issubset:[0,7],item:[],iter:[5,6],its:[0,2,5,6,7,8],itself:[2,6],j_data:5,john:7,json:[0,2,5,6,7],json_data:[0,2,6,7],just:[],kappa:7,keep:[],kei:[2,5,6,7],keyerror:[],keyword:[],label:5,last:7,later:[3,6],learn:7,left:[2,6,7],left_domain:2,left_h:2,lego:0,len:[],length:[],let:7,level:[2,8],lhs:[2,6,7],lhs_map:2,lhs_node_id:6,lhs_pair:[],lhs_total:2,lhs_type:2,librari:[0,3,7],like:[0,2,5],line:7,link:6,list:[0,2,5,6],load:[2,5],load_graph:5,longer:7,look:5,loop:[],machin:0,mai:7,maintain:[],make:2,mani:[],manual:[],map:[2,5,6,7,8],matcch:7,match:[0,2,5,6,7],math:7,mathemat:[2,8],mayb:2,mean:[2,7,8],member:2,membership:[],merg:[2,5,6,7],merge3:[],merge_by_attr:2,merge_by_id:2,merge_nod:[5,7],merge_node_list:[],merge_nodes_rh:[],merged_nod:[5,6],method:[0,2,5,6,7],middl:[],miss:8,mod:8,mod_stat:8,model:[3,8],modul:[2,6,7],moral:0,more:[0,6],moreov:5,morphism:2,multidigraph:[],multigraph:[],multipl:[],must:[],mutabl:[],name:[2,5,7],nbrdict:[],nbunch:[],nbunch_it:[],nd_iter:[],nedg:[],need:7,neighbor:[],neighbors_it:[],neither:[5,6],networkx:[2,3,5,6,7,8],networkxerror:[],never:0,new_graph:[2,7],new_graph_from_nod:2,new_graph_id:2,new_id:5,new_nam:[2,5,6],new_nod:[5,7],new_node_id:6,new_rule1:7,next:7,niter:[],nlist:[],nloop:[],nnode:[],no_hi_by:7,node1:[],node2:[],node:[0,2,5,6,7,8],node_dict_factori:[],node_id:[2,5,6],node_list:[5,6],node_lust:6,node_nam:[],node_typ:[2,8],nodelist:[],nodes_it:[],nodes_with_selfloop:[],non:7,none:[0,2,5,6],nor:6,normal:[],note:7,now:7,ntersect:5,num:0,number:[],number_of_edg:[],number_of_nod:[],number_of_selfloop:[],numer:[],obj:[2,6],object:[0,2,3,5,6,7],obtain:[],ofpropag:2,old:[5,6],old_nam:2,onc:[],one:[2,5,6,7],ones:[6,7],onli:[5,6,7],open:0,oper:[2,7],option:[5,6],order:[6,7],ordinari:[0,7],org:[],origin:[5,7],other:0,otherwis:[0,2,5,6],our:7,out:[],out_degre:[],out_degree_it:[],out_edg:[],out_edges_it:[],outgo:[],output:[],over:[],overload:[],own:[],p_lh:[6,7],p_new_node_id:6,p_pair:[],p_rh:[6,7],packag:[5,6],page:3,pair:[],paramet:[0,2,5,6],parent:2,parent_po:7,pars:[0,1,6],parser:6,parsingerror:1,part:[3,6],partial:1,path:2,pattern:[0,2,5,6,7],pattern_typ:[2,5],perform:[6,7],place:6,platform:[],plot:7,plot_graph:[7,8],plot_inst:7,plot_rul:7,point:[],pos:7,positive_integ:7,possibl:[0,7],potenti:7,preced:[],predecessor:[2,8],predecessors_it:[],prefix:[2,5],preform:6,prepend:5,presenc:7,present:[6,7],preserv:[3,5,6,7],presev:[6,7],pretti:5,previous:7,primit:[1,3,4,6,8],primitv:6,print:5,print_graph:5,problem:5,procedur:[2,3,6,8],process:[],produc:[2,6,7],propag:[2,3,7],properti:2,protein:8,provid:[0,2,3,5,6,7,8],pushout:[2,3,6,7],put:5,python:[0,5,7],qntm:0,quietli:[],rais:[0,2,5,6],rang:[],readabl:7,real:0,realset:0,reciproc:[],recogn:[0,6],reconnect:[2,5,8],recurs:2,red:[2,5,7],reduc:0,reduct:[],refer:7,reflect:7,regex:[0,7],regexp:0,regexset:[0,7],region:8,regraph:[0,1,2,5,6,7,8],regraph_tmp_typings_key_that_you_should_not_us:5,regrapherror:[1,5],regraphexcept:1,regraphwarn:1,regular:[0,7],rel:2,rel_pair:[],relabel:5,relabel_nod:5,relabl:5,relat:[0,2,6,8],relation_cl:2,relation_dict:2,relation_dict_factori:2,relation_to_span:2,relax:6,relev:[],remov:[2,5,6,7,8],remove_attr:2,remove_edg:5,remove_edge_attr:[5,7],remove_edge_p:[],remove_edge_rh:[],remove_edges_from:[],remove_graph:[],remove_nod:[2,5,8],remove_node_attr:[5,7],remove_node_attrs_p:[],remove_node_attrs_rh:[],remove_node_rh:[],remove_node_typ:2,remove_nodes_from:[],remove_rel:2,removed_edg:6,removed_edge_attr:6,removed_nod:6,removed_node_attr:6,renam:2,rename_graph:2,rename_nod:2,rename_sourc:2,rename_target:2,replac:6,repositori:7,repr:[2,6],repres:[2,5,6,7,8],represen:[0,2],represent:[0,2,5,6,7],represet:2,request:[],requir:[],respect:[2,5,6],restict:6,restrict:6,result:[0,5,6,7],retreiv:[],retriev:2,retur:7,revers:2,rewrit:[1,2,3,6],rewritingerror:1,rhs:[2,6,7],rhs_g_prime:6,rhs_instanc:7,rhs_map:2,rhs_new_node_id:6,rhs_pair:[],rhs_total:2,rhs_type:2,right:[2,6,7],right_domain:2,right_h:2,robust:[2,8],routin:[],rule1:7,rule:[1,2,3,4,8],rule_attr:2,rule_dict_factori:2,rule_id:2,rule_lhs_typing_dict_factori:2,rule_node_cl:2,rule_rhs_typing_dict_factori:2,rule_typing_cl:2,ruleerror:[1,6],rulenod:2,rulerel:2,ruletyp:2,safe:[],same:[2,6,7],satisfi:[5,7],save:5,script:6,search:[2,3,5],second:7,section:[7,8],see:[0,2,6],seen:7,select:[],self:0,selfloop:[],selfloop_edg:[],separ:2,sequenc:[],serial:[5,7],sesqui:[2,3,6,7],set:[1,2,3,4,5,6,7],set_edg:5,setup:7,shallow:[],should:[2,5,6],side:[2,6,7],silent:[],similar:5,simpl:[0,2,3,6,8],simpler:[],simpli:[],simplifi:6,singl:[],singleton:[],size:5,smth:6,solv:5,some:[0,2,5,6,7],sort:0,sourc:[0,1,2,5,6],span:2,special:7,specif:3,specifi:[2,3,5,6,7],springer:6,ssh:7,stai:[6,7],standard:7,star:[],start:5,state:[0,8],store:5,str:[0,5,6],strict:2,string:[0,7],strong_typ:2,structur:[0,2,3,6,7],subclass:[],subdictionari:5,subdictiotari:5,subgraph:[2,5],subject:[2,6,7,8],subragh:5,subrul:2,subset:[0,5,7],substrat:8,subtract:[5,7],successor:[2,8],successors_it:[],sum:[],suppos:5,symmetr:[2,6,7,8],syntax:[],system:[2,3,8],take:[5,6],target:[2,5,6],test:[0,2,7],thats:6,thei:2,them:[5,6,7],theoret:7,thi:[0,2,3,5,6,7,8],those:[],though:[],thought:2,three:[6,7],through:[2,6,8],time:2,to_command:6,to_direct:[],to_json:[0,2,6],to_nx_graph:2,to_tot:2,to_undirect:[],todo:[0,2],togeth:[6,7],token:5,tool:3,total:2,totalitywarn:1,transfer:[],transform:[1,3,5,6,8],transit:[2,8],tri:6,tupl:5,twice:[],two:[0,2,5,6,7],type:[0,2,3,5,7,8],typing_dict:2,typing_dict_factori:2,typing_graph:[2,5],undirect:[2,3,7],unio:7,union:[0,5,7],uniqu:5,unique_graph_id:2,unique_node_id:5,univ:7,univers:0,universalset:[0,7],unknown:5,unpack:[],updat:[0,2,5,6],update_attr:2,update_edge_attr:5,update_node_attr:5,usag:7,use:[],used:[0,6],user:3,userwarn:[],uses:0,using:7,util:[3,5],utm:[],valid:2,valu:[0,2,5,6,7],variou:[2,3,5],version:3,view:3,wai:[0,6,7],warn:1,weight:[],well:[2,7],were:5,when:6,where:[2,3,5,6,8],whether:[],which:[0,2,5,6,7,8],whose:[2,5,6,7],wiht:5,with_traceback:[],wn2898:[],word:7,work:7,workflow:7,would:5,wrap:[0,7],wrapper:[0,7],yield:[],you:[5,7,8],your:7,zac:7,zip:[]},titles:["Attribute Sets","Exceptions","Hierarchy","Welcome to ReGraph\u2019s documentation!","Modules","Primitives","Rules","Tutorial","Tutorial"],titleterms:{advanc:7,attribut:[0,7],compon:[],creation:8,document:3,except:1,graph:7,hierarchi:[2,8],indic:3,instal:7,modul:[3,4],more:7,part:[7,8],primit:[5,7],propag:8,regraph:3,rewrit:[7,8],rule:[6,7],see:7,set:0,simpl:7,tabl:3,transform:7,tutori:[3,7,8],welcom:3}})

diff --git a/tutorial2.html b/tutorial2.html
@@ -164,12 +164,14 @@ functionality implemented in ReGraph.</p>
 <div class="highlight-default"><div class="highlight"><pre><span></span><span class="n">model</span> <span class="o">=</span> <span class="n">nx</span><span class="o">.</span><span class="n">DiGraph</span><span class="p">()</span>
 <span class="n">primitives</span><span class="o">.</span><span class="n">add_nodes_from</span><span class="p">(</span>
     <span class="n">model</span><span class="p">,</span>
-    <span class="p">[</span><span class="s2">&quot;A&quot;</span><span class="p">,</span> <span class="s2">&quot;R&quot;</span><span class="p">,</span> <span class="s2">&quot;B&quot;</span><span class="p">,</span> <span class="s2">&quot;B_activity&quot;</span><span class="p">,</span> <span class="s2">&quot;activation&quot;</span><span class="p">])</span>
+    <span class="p">[</span><span class="s2">&quot;A&quot;</span><span class="p">,</span> <span class="s2">&quot;R&quot;</span><span class="p">,</span> <span class="s2">&quot;B&quot;</span><span class="p">,</span> <span class="s2">&quot;C&quot;</span><span class="p">,</span> <span class="s2">&quot;B_activity&quot;</span><span class="p">,</span> <span class="s2">&quot;C_activity&quot;</span><span class="p">,</span> <span class="s2">&quot;activation&quot;</span><span class="p">])</span>
 <span class="n">primitives</span><span class="o">.</span><span class="n">add_edges_from</span><span class="p">(</span><span class="n">model</span><span class="p">,</span> <span class="p">[</span>
     <span class="p">(</span><span class="s2">&quot;R&quot;</span><span class="p">,</span> <span class="s2">&quot;A&quot;</span><span class="p">),</span>
     <span class="p">(</span><span class="s2">&quot;R&quot;</span><span class="p">,</span> <span class="s2">&quot;activation&quot;</span><span class="p">),</span>
     <span class="p">(</span><span class="s2">&quot;activation&quot;</span><span class="p">,</span> <span class="s2">&quot;B_activity&quot;</span><span class="p">),</span>
-    <span class="p">(</span><span class="s2">&quot;B_activity&quot;</span><span class="p">,</span> <span class="s2">&quot;B&quot;</span><span class="p">)</span>
+    <span class="p">(</span><span class="s2">&quot;B_activity&quot;</span><span class="p">,</span> <span class="s2">&quot;B&quot;</span><span class="p">),</span>
+    <span class="p">(</span><span class="s2">&quot;activation&quot;</span><span class="p">,</span> <span class="s2">&quot;C_activity&quot;</span><span class="p">),</span>
+    <span class="p">(</span><span class="s2">&quot;C_activity&quot;</span><span class="p">,</span> <span class="s2">&quot;C&quot;</span><span class="p">)</span>
 <span class="p">])</span>
 <span class="n">hierarchy</span><span class="o">.</span><span class="n">add_graph</span><span class="p">(</span><span class="s2">&quot;model&quot;</span><span class="p">,</span> <span class="n">model</span><span class="p">)</span>
 </pre></div>
@@ -182,7 +184,9 @@ functionality implemented in ReGraph.</p>
         <span class="s2">&quot;A&quot;</span><span class="p">:</span> <span class="s2">&quot;protein&quot;</span><span class="p">,</span>
         <span class="s2">&quot;R&quot;</span><span class="p">:</span> <span class="s2">&quot;region&quot;</span><span class="p">,</span>
         <span class="s2">&quot;B&quot;</span><span class="p">:</span> <span class="s2">&quot;protein&quot;</span><span class="p">,</span>
+        <span class="s2">&quot;C&quot;</span><span class="p">:</span> <span class="s2">&quot;protein&quot;</span><span class="p">,</span>
         <span class="s2">&quot;B_activity&quot;</span><span class="p">:</span> <span class="s2">&quot;activity&quot;</span><span class="p">,</span>
+        <span class="s2">&quot;C_activity&quot;</span><span class="p">:</span> <span class="s2">&quot;activity&quot;</span><span class="p">,</span>
         <span class="s2">&quot;activation&quot;</span><span class="p">:</span> <span class="s2">&quot;mod&quot;</span>
 <span class="p">}</span>
 <span class="n">hierarchy</span><span class="o">.</span><span class="n">add_typing</span><span class="p">(</span><span class="s2">&quot;model&quot;</span><span class="p">,</span> <span class="s2">&quot;G&quot;</span><span class="p">,</span> <span class="n">mapping</span><span class="p">)</span>
@@ -196,6 +200,14 @@ functionality implemented in ReGraph.</p>
 <div class="highlight-default"><div class="highlight"><pre><span></span><span class="gp">&gt;&gt;&gt; </span><span class="n">hierarchy</span><span class="o">.</span><span class="n">remove_node</span><span class="p">(</span><span class="s2">&quot;G&quot;</span><span class="p">,</span> <span class="n">reconnect</span><span class="o">=</span><span class="kc">True</span><span class="p">)</span>
 <span class="gp">&gt;&gt;&gt; </span><span class="n">hierarchy</span><span class="o">.</span><span class="n">typings</span><span class="p">()</span>
 <span class="go">[(&#39;model&#39;, &#39;T&#39;)]</span>
+<span class="gp">&gt;&gt;&gt; </span><span class="n">hierarchy</span><span class="o">.</span><span class="n">typing</span><span class="p">[</span><span class="s2">&quot;model&quot;</span><span class="p">][</span><span class="s2">&quot;T&quot;</span><span class="p">]</span>
+<span class="go">{&#39;A&#39;: &#39;agent&#39;,</span>
+<span class="go"> &#39;B&#39;: &#39;agent&#39;,</span>
+<span class="go"> &#39;B_activity&#39;: &#39;state&#39;,</span>
+<span class="go"> &#39;C&#39;: &#39;agent&#39;,</span>
+<span class="go"> &#39;C_activity&#39;: &#39;state&#39;,</span>
+<span class="go"> &#39;R&#39;: &#39;agent&#39;,</span>
+<span class="go"> &#39;activation&#39;: &#39;action&#39;}</span>
 </pre></div>
 </div>
 <p>Graph hierarchy is also able to accommodate binary symmetric relations on graphs.
@@ -215,6 +227,33 @@ Consider the following graph</p>
     <span class="n">hierarchy</span><span class="o">.</span><span class="n">add_graph</span><span class="p">(</span><span class="s2">&quot;catalysis&quot;</span><span class="p">,</span> <span class="n">catalysis</span><span class="p">)</span>
 
 <span class="n">plot_graph</span><span class="p">(</span><span class="n">hierarchy</span><span class="o">.</span><span class="n">graph</span><span class="p">[</span><span class="s2">&quot;catalysis&quot;</span><span class="p">])</span>
+</pre></div>
+</div>
+<img alt="_images/ex1_catalysis.png" src="_images/ex1_catalysis.png" />
+<p>Create a relation between graph <cite>model</cite> and graph <cite>catalysis</cite>:</p>
+<div class="highlight-default"><div class="highlight"><pre><span></span><span class="n">relation</span> <span class="o">=</span> <span class="p">{</span>
+        <span class="s2">&quot;A&quot;</span><span class="p">:</span> <span class="s2">&quot;enzyme&quot;</span><span class="p">,</span>
+        <span class="s2">&quot;B&quot;</span><span class="p">:</span> <span class="s2">&quot;substrate&quot;</span><span class="p">,</span>
+        <span class="s2">&quot;C&quot;</span><span class="p">:</span> <span class="s2">&quot;substrate&quot;</span><span class="p">,</span>
+        <span class="s2">&quot;B_activity&quot;</span><span class="p">:</span> <span class="s2">&quot;mod_state&quot;</span><span class="p">,</span>
+        <span class="s2">&quot;C_activity&quot;</span><span class="p">:</span> <span class="s2">&quot;mod_state&quot;</span><span class="p">,</span>
+        <span class="s2">&quot;activation&quot;</span><span class="p">:</span> <span class="s2">&quot;mod&quot;</span>
+<span class="p">}</span>
+<span class="n">hierarchy</span><span class="o">.</span><span class="n">add_relation</span><span class="p">(</span><span class="s1">&#39;model&#39;</span><span class="p">,</span> <span class="s1">&#39;catalysis&#39;</span><span class="p">)</span>
+</pre></div>
+</div>
+<div class="highlight-default"><div class="highlight"><pre><span></span><span class="gp">&gt;&gt;&gt; </span><span class="n">hierarchy</span><span class="o">.</span><span class="n">relation</span><span class="p">[</span><span class="s1">&#39;model&#39;</span><span class="p">][</span><span class="s1">&#39;catalysis&#39;</span><span class="p">]</span>
+<span class="go">{&#39;A&#39;: {&#39;enzyme&#39;},</span>
+<span class="go"> &#39;B&#39;: {&#39;substrate&#39;},</span>
+<span class="go"> &#39;B_activity&#39;: {&#39;mod_state&#39;},</span>
+<span class="go"> &#39;C&#39;: {&#39;substrate&#39;},</span>
+<span class="go"> &#39;C_activity&#39;: {&#39;mod_state&#39;},</span>
+<span class="go"> &#39;activation&#39;: {&#39;mod&#39;}}</span>
+<span class="gp">&gt;&gt;&gt; </span><span class="n">hierarchy</span><span class="o">.</span><span class="n">relation</span><span class="p">[</span><span class="s1">&#39;catalysis&#39;</span><span class="p">][</span><span class="s1">&#39;model&#39;</span><span class="p">]</span>
+<span class="go">{&#39;enzyme&#39;: {&#39;A&#39;},</span>
+<span class="go"> &#39;mod&#39;: {&#39;activation&#39;},</span>
+<span class="go"> &#39;mod_state&#39;: {&#39;B_activity&#39;, &#39;C_activity&#39;},</span>
+<span class="go"> &#39;substrate&#39;: {&#39;B&#39;, &#39;C&#39;}}</span>
 </pre></div>
 </div>
 </div>
